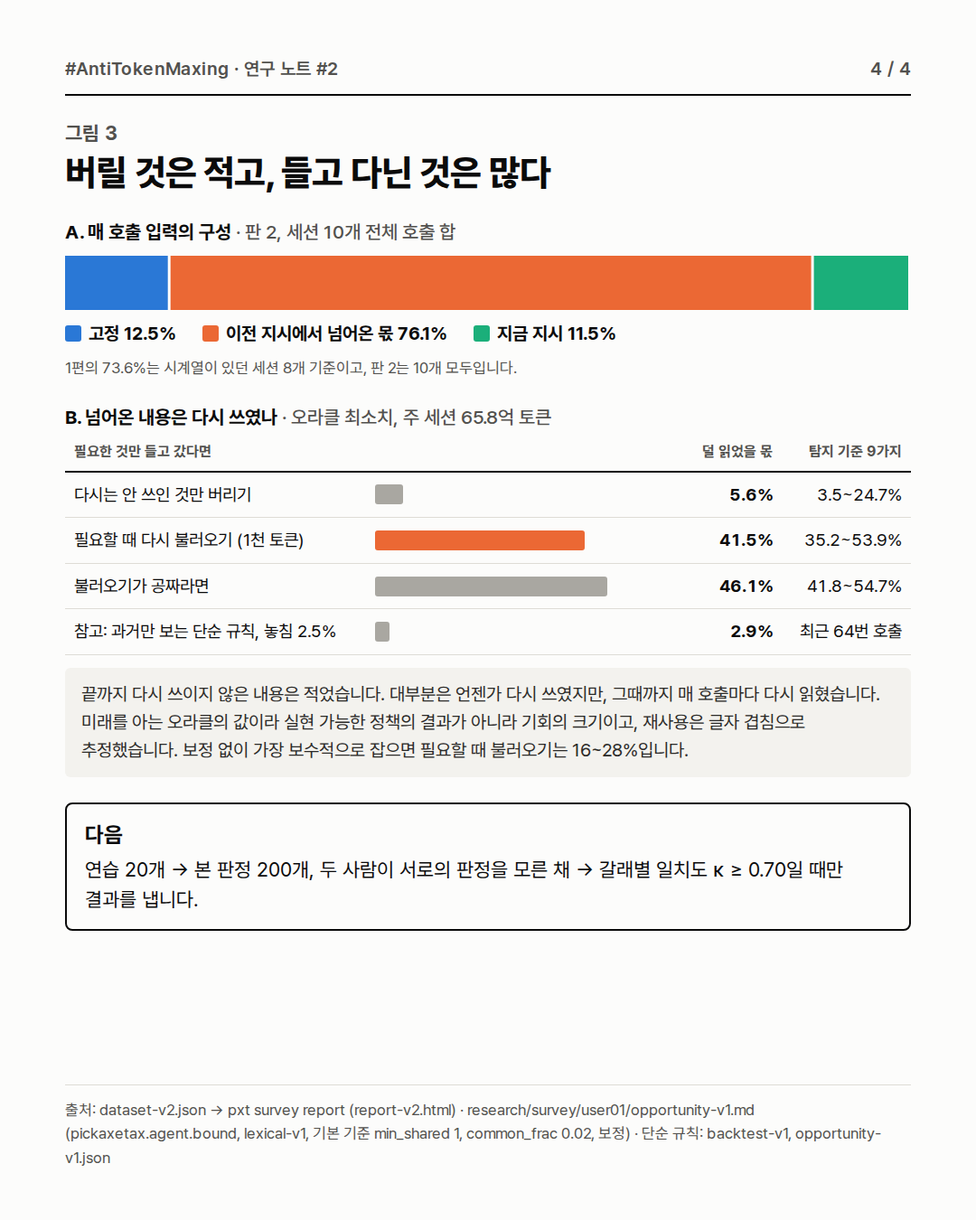
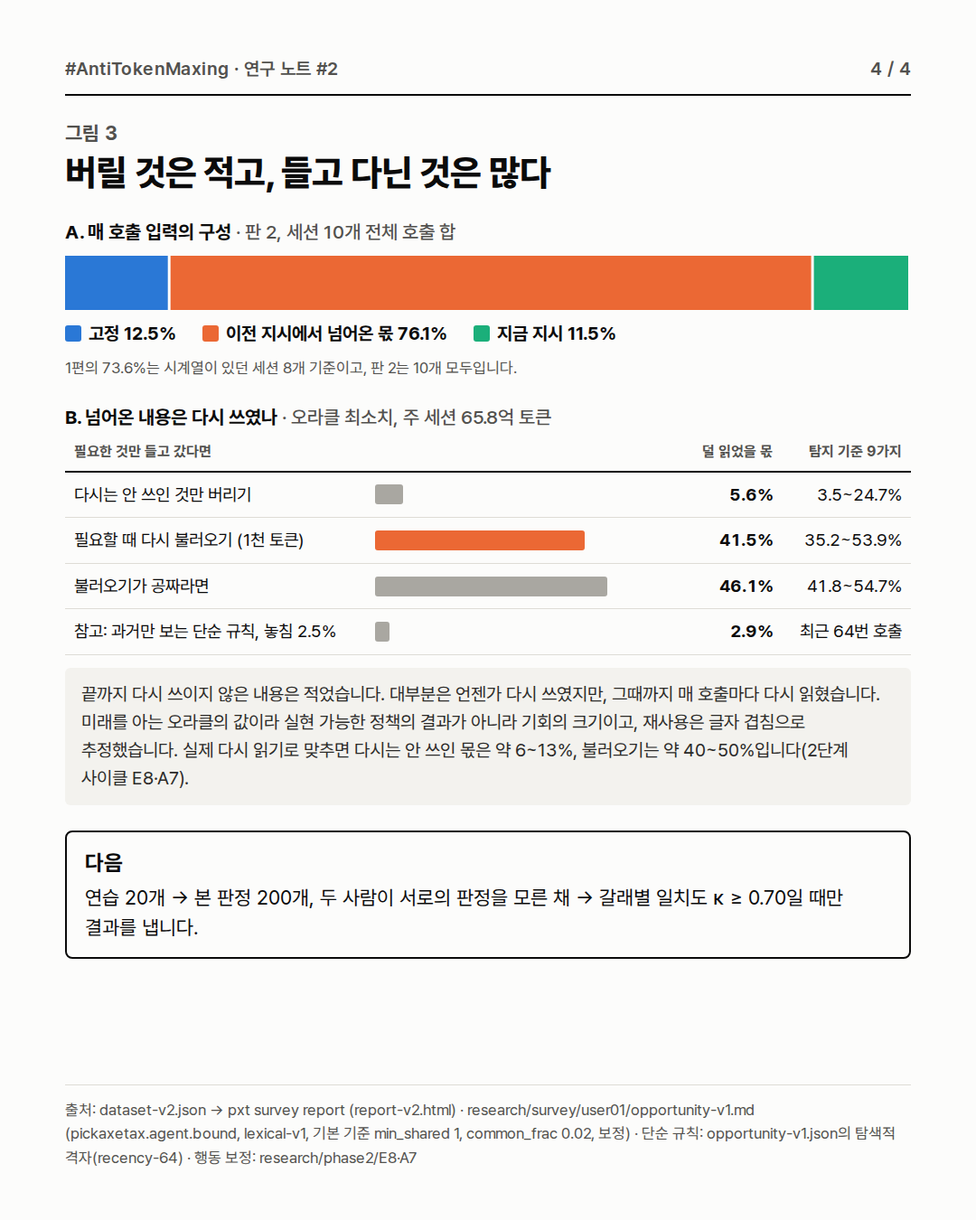
Note 2 draft v3: money sentence, behaviour-calibrated ranges (about 6-13%, 40-50%); schema postponed; posting order

diff --git a/docs/launch/linkedin-series/figures/note02-slides.html b/docs/launch/linkedin-series/figures/note02-slides.html
@@ -76,6 +76,6 @@ table.o td { vertical-align: middle; }
 <section class="slide" id="s4"><div class="top"><span>#AntiTokenMaxing · 연구 노트 #2</span><span>4 / 4</span></div>
   <div><p class="cap">그림 3</p><h2>버릴 것은 적고, 들고 다닌 것은 많다</h2></div>
   <div class="panel"><p class="k">A. 매 호출 입력의 구성 <span>· 판 2, 세션 10개 전체 호출 합</span></p><svg width="936" height="60" viewBox="0 0 936 60" role="img" aria-label="decomposition"><rect x="0.0" y="0" width="113.7" height="60" fill="#2a78d6"/><rect x="116.7" y="0" width="708.9" height="60" fill="#eb6834"/><rect x="828.6" y="0" width="104.4" height="60" fill="#1baf7a"/></svg><div class="legend"><span><i style="background:#2a78d6"></i>고정 12.5%</span><span><i style="background:#eb6834"></i>이전 지시에서 넘어온 몫 76.1%</span><span><i style="background:#1baf7a"></i>지금 지시 11.5%</span></div><p class="sub2">1편의 73.6%는 시계열이 있던 세션 8개 기준이고, 판 2는 10개 모두입니다.</p></div>
-  <div class="panel"><p class="k">B. 넘어온 내용은 다시 쓰였나 <span>· 오라클 최소치, 주 세션 65.8억 토큰</span></p><table class="n o"><thead><tr><th>필요한 것만 들고 갔다면</th><th></th><th class="r">덜 읽었을 몫</th><th class="r">탐지 기준 9가지</th></tr></thead><tbody><tr><td>다시는 안 쓰인 것만 버리기</td><td style="width:38%"><div class="obar dim" style="width:9.3%"></div></td><td class="r"><b>5.6%</b></td><td class="r">3.5~24.7%</td></tr><tr><td>필요할 때 다시 불러오기 (1천 토큰)</td><td style="width:38%"><div class="obar" style="width:69.2%"></div></td><td class="r"><b>41.5%</b></td><td class="r">35.2~53.9%</td></tr><tr><td>불러오기가 공짜라면</td><td style="width:38%"><div class="obar dim" style="width:76.8%"></div></td><td class="r"><b>46.1%</b></td><td class="r">41.8~54.7%</td></tr><tr><td>참고: 과거만 보는 단순 규칙, 놓침 2.5%</td><td style="width:38%"><div class="obar dim" style="width:4.8%"></div></td><td class="r"><b>2.9%</b></td><td class="r">최근 64번 호출</td></tr></tbody></table><p class="note">끝까지 다시 쓰이지 않은 내용은 적었습니다. 대부분은 언젠가 다시 쓰였지만, 그때까지 매 호출마다 다시 읽혔습니다. 미래를 아는 오라클의 값이라 실현 가능한 정책의 결과가 아니라 기회의 크기이고, 재사용은 글자 겹침으로 추정했습니다. 보정 없이 가장 보수적으로 잡으면 필요할 때 불러오기는 16~28%입니다.</p></div>
+  <div class="panel"><p class="k">B. 넘어온 내용은 다시 쓰였나 <span>· 오라클 최소치, 주 세션 65.8억 토큰</span></p><table class="n o"><thead><tr><th>필요한 것만 들고 갔다면</th><th></th><th class="r">덜 읽었을 몫</th><th class="r">탐지 기준 9가지</th></tr></thead><tbody><tr><td>다시는 안 쓰인 것만 버리기</td><td style="width:38%"><div class="obar dim" style="width:9.3%"></div></td><td class="r"><b>5.6%</b></td><td class="r">3.5~24.7%</td></tr><tr><td>필요할 때 다시 불러오기 (1천 토큰)</td><td style="width:38%"><div class="obar" style="width:69.2%"></div></td><td class="r"><b>41.5%</b></td><td class="r">35.2~53.9%</td></tr><tr><td>불러오기가 공짜라면</td><td style="width:38%"><div class="obar dim" style="width:76.8%"></div></td><td class="r"><b>46.1%</b></td><td class="r">41.8~54.7%</td></tr><tr><td>참고: 과거만 보는 단순 규칙, 놓침 2.5%</td><td style="width:38%"><div class="obar dim" style="width:4.8%"></div></td><td class="r"><b>2.9%</b></td><td class="r">최근 64번 호출</td></tr></tbody></table><p class="note">끝까지 다시 쓰이지 않은 내용은 적었습니다. 대부분은 언젠가 다시 쓰였지만, 그때까지 매 호출마다 다시 읽혔습니다. 미래를 아는 오라클의 값이라 실현 가능한 정책의 결과가 아니라 기회의 크기이고, 재사용은 글자 겹침으로 추정했습니다. 실제 다시 읽기로 맞추면 다시는 안 쓰인 몫은 약 6~13%, 불러오기는 약 40~50%입니다(2단계 사이클 E8·A7).</p></div>
   <div class="box"><b>다음</b>연습 20개 → 본 판정 200개, 두 사람이 서로의 판정을 모른 채 → 갈래별 일치도 κ ≥ 0.70일 때만 결과를 냅니다.</div>
-  <p class="src">출처: dataset-v2.json → pxt survey report (report-v2.html) · research/survey/user01/opportunity-v1.md (pickaxetax.agent.bound, lexical-v1, 기본 기준 min_shared 1, common_frac 0.02, 보정) · 단순 규칙: backtest-v1, opportunity-v1.json</p></section>
+  <p class="src">출처: dataset-v2.json → pxt survey report (report-v2.html) · research/survey/user01/opportunity-v1.md (pickaxetax.agent.bound, lexical-v1, 기본 기준 min_shared 1, common_frac 0.02, 보정) · 단순 규칙: opportunity-v1.json의 탐색적 격자(recency-64) · 행동 보정: research/phase2/E8·A7</p></section>

diff --git a/docs/launch/linkedin-series/figures/note02-slides.en.html b/docs/launch/linkedin-series/figures/note02-slides.en.html
@@ -76,6 +76,6 @@ table.o td { vertical-align: middle; }
 <section class="slide" id="s4"><div class="top"><span>#AntiTokenMaxing · Research note #2</span><span>4 / 4</span></div>
   <div><p class="cap">Figure 3</p><h2>Little to throw away, a lot carried</h2></div>
   <div class="panel"><p class="k">A. What each call's input is made of <span>· v2, all calls of the 10 sessions</span></p><svg width="936" height="60" viewBox="0 0 936 60" role="img" aria-label="decomposition"><rect x="0.0" y="0" width="113.7" height="60" fill="#2a78d6"/><rect x="116.7" y="0" width="708.9" height="60" fill="#eb6834"/><rect x="828.6" y="0" width="104.4" height="60" fill="#1baf7a"/></svg><div class="legend"><span><i style="background:#2a78d6"></i>Fixed 12.5%</span><span><i style="background:#eb6834"></i>Carried over from finished instructions 76.1%</span><span><i style="background:#1baf7a"></i>Current 11.5%</span></div><p class="sub2">Note 1's 73.6% covered the 8 sessions that had per-call series; v2 covers all 10.</p></div>
-  <div class="panel"><p class="k">B. Was the carried-over content used again? <span>· oracle bound, main sessions, 6.58 bn tokens</span></p><table class="n o"><thead><tr><th>Carrying only what is needed</th><th></th><th class="r">Less input</th><th class="r">9 detection settings</th></tr></thead><tbody><tr><td>Drop only what is never used again</td><td style="width:38%"><div class="obar dim" style="width:9.3%"></div></td><td class="r"><b>5.6%</b></td><td class="r">3.5–24.7%</td></tr><tr><td>Fetch again when needed (1,000 tokens)</td><td style="width:38%"><div class="obar" style="width:69.2%"></div></td><td class="r"><b>41.5%</b></td><td class="r">35.2–53.9%</td></tr><tr><td>Fetching is free</td><td style="width:38%"><div class="obar dim" style="width:76.8%"></div></td><td class="r"><b>46.1%</b></td><td class="r">41.8–54.7%</td></tr><tr><td>For reference: a simple rule using only the past, 2.5% missed</td><td style="width:38%"><div class="obar dim" style="width:4.8%"></div></td><td class="r"><b>2.9%</b></td><td class="r">last 64 calls</td></tr></tbody></table><p class="note">Little was never used again. Most of it was used at some point, but until then it was re-read on every call. These are an oracle's numbers: the size of the opportunity, not the result of a policy one could run, and reuse is estimated from overlapping words. Without calibration, the most conservative range for fetching on demand is 16–28%.</p></div>
+  <div class="panel"><p class="k">B. Was the carried-over content used again? <span>· oracle bound, main sessions, 6.58 bn tokens</span></p><table class="n o"><thead><tr><th>Carrying only what is needed</th><th></th><th class="r">Less input</th><th class="r">9 detection settings</th></tr></thead><tbody><tr><td>Drop only what is never used again</td><td style="width:38%"><div class="obar dim" style="width:9.3%"></div></td><td class="r"><b>5.6%</b></td><td class="r">3.5–24.7%</td></tr><tr><td>Fetch again when needed (1,000 tokens)</td><td style="width:38%"><div class="obar" style="width:69.2%"></div></td><td class="r"><b>41.5%</b></td><td class="r">35.2–53.9%</td></tr><tr><td>Fetching is free</td><td style="width:38%"><div class="obar dim" style="width:76.8%"></div></td><td class="r"><b>46.1%</b></td><td class="r">41.8–54.7%</td></tr><tr><td>For reference: a simple rule using only the past, 2.5% missed</td><td style="width:38%"><div class="obar dim" style="width:4.8%"></div></td><td class="r"><b>2.9%</b></td><td class="r">last 64 calls</td></tr></tbody></table><p class="note">Little was never used again. Most of it was used at some point, but until then it was re-read on every call. These are an oracle's numbers: the size of the opportunity, not the result of a policy one could run, and reuse is estimated from overlapping words. Calibrated to what was actually read again: never-used-again about 6–13%, fetch-on-demand about 40–50% (phase 2, E8 and A7).</p></div>
   <div class="box"><b>Next</b>20 practice items → 200 main items, two people labeling without seeing each other's labels → a category is reported only if κ ≥ 0.70.</div>
-  <p class="src">Sources: dataset-v2.json → pxt survey report (report-v2.html) · research/survey/user01/opportunity-v1.md (pickaxetax.agent.bound, lexical-v1; default min_shared 1, common_frac 0.02, calibrated) · simple rule: backtest-v1, opportunity-v1.json</p></section>
+  <p class="src">Sources: dataset-v2.json → pxt survey report (report-v2.html) · research/survey/user01/opportunity-v1.md (pickaxetax.agent.bound, lexical-v1; default min_shared 1, common_frac 0.02, calibrated) · simple rule and re-read calibration: opportunity-v1.json, phase 2 E8/A7</p></section>

diff --git a/docs/launch/linkedin-series/figures/note02-slides.py b/docs/launch/linkedin-series/figures/note02-slides.py
@@ -105,9 +105,9 @@ T = {
   oth=["필요한 것만 들고 갔다면", "덜 읽었을 몫", "탐지 기준 9가지"],
   orows=["다시는 안 쓰인 것만 버리기", "필요할 때 다시 불러오기 (1천 토큰)", "불러오기가 공짜라면"],
   simple="참고: 과거만 보는 단순 규칙, 놓침 {m:.1f}%", simple_r="최근 {n}번 호출",
-  note_c="끝까지 다시 쓰이지 않은 내용은 적었습니다. 대부분은 언젠가 다시 쓰였지만, 그때까지 매 호출마다 다시 읽혔습니다. 미래를 아는 오라클의 값이라 실현 가능한 정책의 결과가 아니라 기회의 크기이고, 재사용은 글자 겹침으로 추정했습니다. 보정 없이 가장 보수적으로 잡으면 필요할 때 불러오기는 {lo:.0f}~{hi:.0f}%입니다.",
+  note_c="끝까지 다시 쓰이지 않은 내용은 적었습니다. 대부분은 언젠가 다시 쓰였지만, 그때까지 매 호출마다 다시 읽혔습니다. 미래를 아는 오라클의 값이라 실현 가능한 정책의 결과가 아니라 기회의 크기이고, 재사용은 글자 겹침으로 추정했습니다. 실제 다시 읽기로 맞추면 다시는 안 쓰인 몫은 약 6~13%, 불러오기는 약 40~50%입니다(2단계 사이클 E8·A7).",
   nxt="<b>다음</b>연습 20개 → 본 판정 200개, 두 사람이 서로의 판정을 모른 채 → 갈래별 일치도 κ ≥ 0.70일 때만 결과를 냅니다.",
-  src4="출처: dataset-v2.json → pxt survey report (report-v2.html) · research/survey/user01/opportunity-v1.md (pickaxetax.agent.bound, lexical-v1, 기본 기준 min_shared 1, common_frac 0.02, 보정) · 단순 규칙: backtest-v1, opportunity-v1.json",
+  src4="출처: dataset-v2.json → pxt survey report (report-v2.html) · research/survey/user01/opportunity-v1.md (pickaxetax.agent.bound, lexical-v1, 기본 기준 min_shared 1, common_frac 0.02, 보정) · 단순 규칙: opportunity-v1.json의 탐색적 격자(recency-64) · 행동 보정: research/phase2/E8·A7",
 ),
 "en": dict(
   head="#AntiTokenMaxing · Research note #2",
@@ -145,9 +145,9 @@ T = {
   oth=["Carrying only what is needed", "Less input", "9 detection settings"],
   orows=["Drop only what is never used again", "Fetch again when needed (1,000 tokens)", "Fetching is free"],
   simple="For reference: a simple rule using only the past, {m:.1f}% missed", simple_r="last {n} calls",
-  note_c="Little was never used again. Most of it was used at some point, but until then it was re-read on every call. These are an oracle's numbers: the size of the opportunity, not the result of a policy one could run, and reuse is estimated from overlapping words. Without calibration, the most conservative range for fetching on demand is {lo:.0f}–{hi:.0f}%.",
+  note_c="Little was never used again. Most of it was used at some point, but until then it was re-read on every call. These are an oracle's numbers: the size of the opportunity, not the result of a policy one could run, and reuse is estimated from overlapping words. Calibrated to what was actually read again: never-used-again about 6–13%, fetch-on-demand about 40–50% (phase 2, E8 and A7).",
   nxt="<b>Next</b>20 practice items → 200 main items, two people labeling without seeing each other's labels → a category is reported only if κ ≥ 0.70.",
-  src4="Sources: dataset-v2.json → pxt survey report (report-v2.html) · research/survey/user01/opportunity-v1.md (pickaxetax.agent.bound, lexical-v1; default min_shared 1, common_frac 0.02, calibrated) · simple rule: backtest-v1, opportunity-v1.json",
+  src4="Sources: dataset-v2.json → pxt survey report (report-v2.html) · research/survey/user01/opportunity-v1.md (pickaxetax.agent.bound, lexical-v1; default min_shared 1, common_frac 0.02, calibrated) · simple rule and re-read calibration: opportunity-v1.json, phase 2 E8/A7",
 ),
 }
 

diff --git a/docs/launch/linkedin-series/02-the-floor.md b/docs/launch/linkedin-series/02-the-floor.md
@@ -1,14 +1,15 @@
 # 연구 노트 #2 — 버리는 문제가 아니라, 들고 다니는 문제
 
-- 상태: **초안 v2 (2026-10-06)**, 검토 전. v1(반박할 수 없는 바닥부터)에서 바뀐 것: 조사 자체 비용 단락 삭제(데이터는
+- 상태: **초안 v3 (2026-10-06)**, 검토 전. v3: 돈 한 문장, 범위를 행동으로 맞춘 값(약 6~13%, 약 40~50%)으로, 걸음 비용 1.5%(측정 오류 정정). v2: v1(반박할 수 없는 바닥부터)에서 바뀐 것: 조사 자체 비용 단락 삭제(데이터는
   `research/survey/self-audit-log.md`에 유지), 걸음 비용과 오라클 최소치(넘어온 내용이 다시 쓰였나)를 더했다.
   결정 반영: 본 결과는 v1 규칙(8.92%, 1시간 캐시 단가로 고친 값)과 민감도 범위, 해석은 "쉰 것이 아니라 구조가 비효율적".
 - 목적: 판정 기준 v1의 첫 적용(기계 판정 세 갈래)과, 기록만으로 잴 수 있는 구조의 몫(오라클 최소치, 낭비 판정 아님).
   1편 숫자 정정(S09 완전 측정). 다음 단계(블라인드 판정) 예고.
-- 분량: 한국어 본문 831자(공백 포함). 게시물 전체(한·영) 2680자. 붙여넣기용 `02-post.txt`.
+- 분량: 한국어 부분 934자(공백 포함). 게시물 전체(한·영) 2909자(링크드인 한도 3,000자). 붙여넣기용 `02-post.txt`.
 - 이미지: 4장씩, `img/note02/ko/01~04.png`, `img/note02/en/01~04.png` (1080×1350). 원본 `figures/note02-slides.html`,
   `figures/note02-slides.en.html`. 숫자는 데이터 파일에서 바로 뽑는다: `python3 docs/launch/linkedin-series/figures/note02-slides.py`,
   그림은 `node docs/launch/linkedin-series/figures/render-slides.mjs <html> <폴더>`.
+- 게시 순서(데이터 소유자 결정, 2026-10-06): 노트 2를 올리는 날 사이트 브랜치를 병합해 숫자를 판 2로 맞춘다. 판정과 기여 모집은 그 뒤 노트에서 알린다.
 - 게시 전 할 일: PR 머지(첫 댓글 링크가 열리도록), 공동 검토자의 규칙 검토(`research/protocol/review-kit-ko.md`),
   사이트 숫자를 판 2로 전환하는 브랜치 머지.
 - 링크: 본문에 넣지 않고 첫 댓글에 단다
@@ -21,9 +22,9 @@
 
 중복과 오류로 받은 토큰 자체는 0.001%도 안 됩니다. 하지만 그 한 걸음을 내딛느라 AI는 매번 맥락 전체를 다시 읽었고, 그렇게 쓰인 입력이 1.5%입니다. 비용으로 보면 8.92%입니다. 거의 전부가 이미 처리한 맥락(평균 44만 토큰)을 처음부터 다시 처리한 값이고, 그 79%는 제가 1시간 넘게 쉬었다 돌아온 직후였습니다. 쉰 것이 낭비가 아니라, 그렇게 만드는 구조가 비효율적입니다.
 
-진짜 질문은 따로 있습니다. 매 호출 맥락의 76%는 이미 끝난 지시에서 넘어온 내용이었습니다. 그 내용이 뒤에서 다시 쓰였는지 기록을 추적했습니다. 끝까지 다시 쓰이지 않을 내용만 버렸다면 줄었을 입력은 생각보다 적었습니다(4~25%). 대부분은 언젠가 다시 쓰였지만, 그때까지 쓰이지 않은 채 매 호출마다 다시 읽혔습니다. 필요할 때 정확히 불러오는 이상적인 구조였다면 입력의 35~54%가 필요 없었습니다. 다만 과거만 보고 정하는 단순한 규칙으로는 필요한 내용을 거의 놓치지 않으면서 3% 남짓밖에 줄이지 못했습니다.
+진짜 질문은 따로 있습니다. 매 호출 맥락의 76%는 이미 끝난 지시에서 넘어온 내용이었습니다. 돈으로 보면, 지출의 절반 이상이 이미 끝난 일의 내용을 다시 읽고 다시 저장하는 데 들었습니다. 그 내용이 뒤에서 다시 쓰였는지 기록을 추적했습니다. 끝까지 다시 쓰이지 않을 내용만 버렸다면 줄었을 입력은 생각보다 적었습니다(약 6~13%). 대부분은 언젠가 다시 쓰였지만, 그때까지 쓰이지 않은 채 매 호출마다 다시 읽혔습니다. 필요할 때 정확히 불러오는 이상적인 구조였다면 입력의 약 40~50%가 필요 없었습니다. 다만 과거만 보고 정하는 단순한 규칙으로는 필요한 내용을 거의 놓치지 않으면서 3% 남짓밖에 줄이지 못했습니다.
 
-버릴 것이 많은 게 아니라, 전부를 늘 들고 다니는 방식이 문제입니다. 그리고 그 방식을 바꾸는 일은 생각보다 어렵습니다. 다시 쓰였는지는 글자 겹침으로 추정한 값이라, 다음은 두 사람의 블라인드 판정으로 검증합니다. (계속)
+버릴 것이 많은 게 아니라, 전부를 늘 들고 다니는 방식이 문제입니다. 그리고 그 방식을 바꾸는 일은 생각보다 어렵습니다. 다시 쓰였는지는 글자 겹침과 실제 다시 읽기로 추정한 값이라, 다음은 두 사람의 블라인드 판정으로 검증합니다. (계속)
 
 
 — English —
@@ -34,9 +35,9 @@ Note 1 defined waste in eight categories. Today I counted the three that the rec
 
 The duplicate and error results themselves are under 0.001% of the tokens. But to take each of those steps the AI re-read its whole context, and those steps took 1.5% of the input. In cost it is 8.92%. Almost all of that is context already processed being processed again from scratch (440,000 tokens on average), and 79% of it came right after I returned from more than an hour away. The break is not the waste; the structure that makes it so expensive is inefficient.
 
-The real question is elsewhere. 76% of each call's context was carried over from instructions already finished. I traced whether that content was used again later. Dropping only what was never used again would have saved less than I expected (4–25% of the input). Most of it was used again at some point, but until then it was re-read, unused, on every call. With an ideal structure that fetches content exactly when it is needed, 35–54% of the input would not have been needed. But simple rules that decide from the past alone, without missing needed content, cut only about 3%.
+The real question is elsewhere. 76% of each call's context was carried over from instructions already finished. In money, more than half of the spending went to re-reading and re-caching content from work already finished. I traced whether that content was used again later. Dropping only what was never used again would have saved less than I expected (about 6–13% of the input). Most of it was used again at some point, but until then it was re-read, unused, on every call. With an ideal structure that fetches content exactly when it is needed, about 40–50% of the input would not have been needed. But simple rules that decide from the past alone, without missing needed content, cut only about 3%.
 
-The problem is not that much should be thrown away. It is carrying everything, all the time, and changing that is harder than it looks. Reuse was estimated from overlapping words, so next, two people will check it by blind labeling. (To be continued)
+The problem is not that much should be thrown away. It is carrying everything, all the time, and changing that is harder than it looks. Reuse was estimated from overlapping words and from what was actually read again, so next, two people will check it by blind labeling. (To be continued)
 
 #AntiTokenMaxing #AI #LLM #TOKENMAXING #GREENAI
 
@@ -68,7 +69,13 @@ Data, rules and results: the links above (in English and Korean).
 - 1.5%: 걸음 비용(하한 밖). 도구 호출이 모두 중복이었던 걸음 36번 15,301,532 + 모두 오류였던 걸음 255번 83,880,405
   = 99,181,937 ÷ 6,839,974,268 = 1.45%. `floor-t1.md`의 "걸음 비용". (이전 초안의 2.6%는 판정기가 화면 캡처 이미지를
   글자만으로 비교해, 바뀐 화면을 다시 읽은 걸음까지 중복으로 센 값이었습니다. 사이클 B7에서 바로잡았습니다.)
-- 4~25%, 35~54%: 오라클 최소치(`opportunity-v1.md`), 주 세션 6,579,410,935토큰. 다시는 안 쓰인 것만 버리기(P = ∞) 5.6%,
+- 절반 이상: 돈으로 본 몫(`research/phase2/C5-money.md`, `C8-price-sensitivity.md`). 끝난 지시에서 넘어온 맥락을 다시 읽는 값만
+  52~54%(목록가 비율), 그것을 캐시 만료 뒤 다시 저장한 값까지 62~64%. 가격 비율을 48가지로 바꿔도 다시 저장 포함 56~69%라
+  "절반 이상"은 어느 설정에서도 성립한다(읽기만으로는 캐시 읽기 값이 입력의 0.05~0.09배보다 싸면 절반 아래로 내려간다).
+- 약 6~13%, 약 40~50%: 오라클 최소치를 행동으로 맞춘 범위. 글자 겹침은 시간에 대칭이라 주제까지 잰다(`research/phase2/E5-vocabulary-placebo.md`).
+  실제 압축 34번 뒤 AI가 다시 읽으러 간 파일과 대조하면(E8), 다시는 안 쓰인 몫은 5.6~13%, 행동으로 학습한 모델로는 약 7~8%
+  (믿을 만한 변형 6.3~10.5%, A7). 필요할 때 불러오기는 같은 정의들에서 41.5~48.7%. 아래는 v2까지 쓰던 글자 겹침 9가지 기준의 값.
+- (v2의 4~25%, 35~54%) 오라클 최소치(`opportunity-v1.md`), 주 세션 6,579,410,935토큰. 다시는 안 쓰인 것만 버리기(P = ∞) 5.6%,
   9가지 탐지 기준(보정) 3.5~24.7%. 필요할 때 다시 불러오기(P = 1,000) 41.5%, 같은 9가지 35.2~53.9%(보정 없이 16.2~28.1%).
   미래를 아는 오라클의 값(기회의 크기)이고, 재사용은 글자 겹침(`lexical-v1`)으로 추정해 아직 블라인드 판정으로 검증하지 않았다.
 - 3% 남짓: 사전 등록 백테스트(`research/survey/user01/backtest-v1.json`, 규약 `research/protocol/backtest-v1.md`)와 그 밖의

diff --git a/docs/launch/README.md b/docs/launch/README.md
@@ -40,6 +40,8 @@ Sequence:
 | T1 floor (codebook v1): removable tokens 0.0008% (W1 3,414 + W2 52,436); removable cost 8.92% (1-hour cache writes priced at 2×), sensitivity 0.73–8.92%; 78.8% of W6 after an idle gap > 1 h (64 of 90 re-writes; 435,564 tokens on average over all 90, 482,874 over the 64) | `research/survey/user01/floor-t1.json`, `floor-t1.md` |
 | Steps spent only on W1 or W2 results: 291 API calls, 99,181,937 input tokens (1.45%; 2.6% before the image-identity fix of phase 2 cycle B7) | `research/survey/user01/floor-t1.md` (steps, outside the floor) |
 | Oracle bound over the 10 main sessions (6,579,410,935 tokens): drop only what is never used again 5.6% (3.5–24.7% over 9 detection settings), fetch on demand at 1,000 tokens 41.5% (35.2–53.9%; 16.2–28.1% uncalibrated); 42.4% of input invisible in the records | `research/survey/user01/opportunity-v1.md` (lexical-v1, not yet validated) |
+| Calibrated to behaviour (files actually re-read after the 34 compactions): never used again about 6–13% (A7 model 7.1–7.7%), fetch on demand about 40–50% (41.5–48.7%); used in note 2 v3 | `research/phase2/E8-behaviour-test.md`, `A7-behaviour-model.md` |
+| Money: more than half of all spending re-reads and re-caches content carried from finished instructions (56–69% across 48 price settings; reads alone 52–54% at list ratios) | `research/phase2/C5-money.md`, `C8-price-sensitivity.md` |
 | Research session: 44.6% of input (340,654,835 of 764,421,492) went to sub-agents, 98% of that to page downloads (interim, 2026-10-06) | `research/survey/self-audit-log.md`, `research/survey/README.md` (334,527,780 of 340,654,835) |
 | Note 1 session A (snapshot 7b91c8fa…): 400 calls, 169,482,468 input, 729,447 output (1:232); forget 11.0%, page 49.9%, unjudgeable 42.0%; same report on two runs; order holds in 18 cells | `research/results/note01-session-a.json`, `pxt agent audit` |
 | Bound session: 322 calls, 149,273,256 input tokens; forget 9.1%, page 50.1% (47.5% at 1k, 34.7% at 10k); invisible 32.4%; base 10.1%; ceiling 57.5%; persisted writes 25.1% of resident context | `research/results/belady-session-01.json`, `research/belady-bound.md` §4 |

diff --git a/research/phase2/proposal-survey-contribution.md b/research/phase2/proposal-survey-contribution.md
@@ -1,6 +1,6 @@
 # Proposal: a "survey" contribution kind (n > 1)
 
-Status: **proposal, not implemented** — a contribution schema change is the maintainer's decision
+Status: **proposal, not implemented; postponed by the data owner until after the blind labels (2026-10-06)** — a contribution schema change is the maintainer's decision
 (both validators, `pickaxetax/contrib.py` and `site/contrib.js`, must change together and stay in
 parity, and the public aggregate gains a new block).
 
